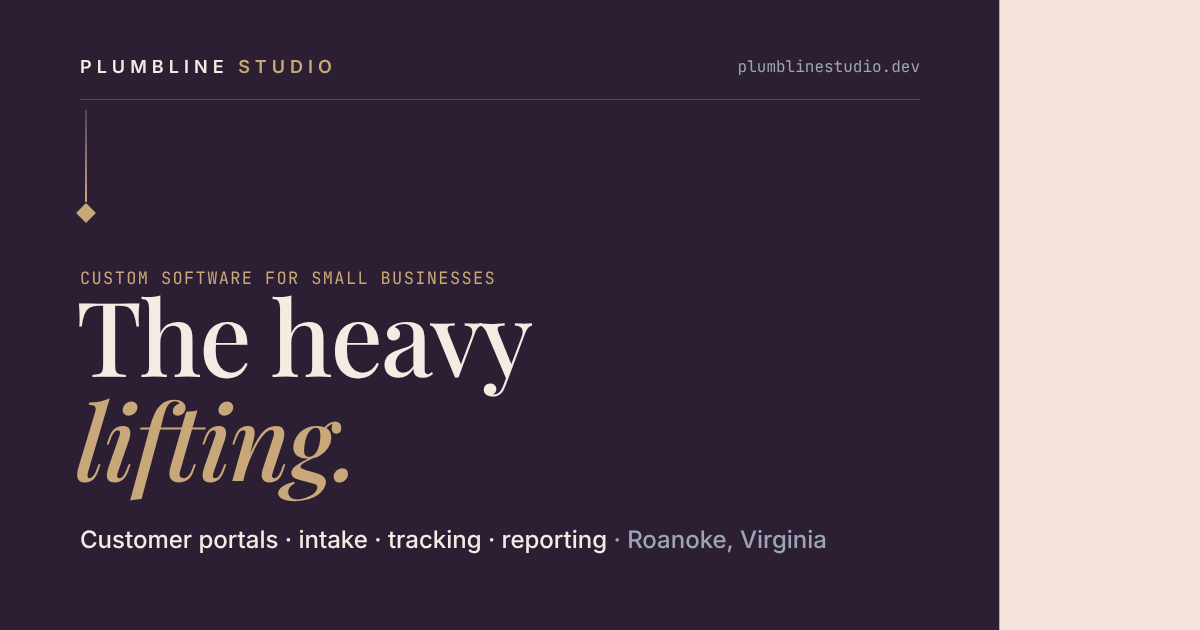
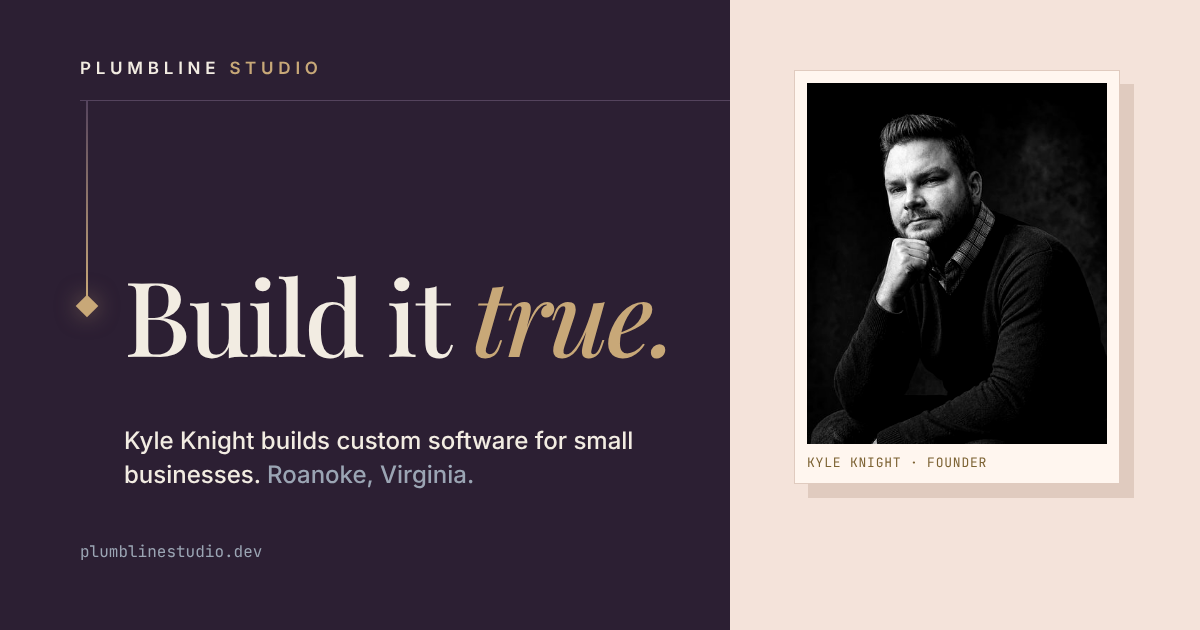
Plumb line and "Build it true." on every page (#45)
* Home: bring back the plumb line and bob, hanging from the header into the hero

Claude-Session: https://claude.ai/code/session_01N9v93JXUuCPZh9da1m1PTa

* Findability: icons, plum share image, search titles, structured data, local copy, 404

- Icons: favicon.ico (48), favicon.svg (plumb bob on plum), apple-touch-icon, 192/512
  icons, web manifest, theme-color, on every page incl. the case-study template.
- New 1200x630 share image in plum, without the old 2-4 week promise; J2 case study
  gets a proper 1200x630 share crop (og: front matter).
- Titles and descriptions say what the studio is and where: 'Custom software for
  small businesses · Roanoke, VA'; partners 'White-label build partner for agencies,
  MSPs, consultants'; descriptions trimmed to ~150-160 characters.
- Structured data: home ProfessionalService (+@id, logo, image, priceRange, service
  area cities, founder image), WebSite, FAQPage; partners Service with audiences and
  both offers; how-a-build-runs FAQPage; Article + BreadcrumbList on every case study;
  CollectionPage on the index; breadcrumbs on security.
- Portrait served as /kyle.jpg (was base64 in JS, invisible to crawlers).
- Copy: Google Sheets/AppSheet line in the hero; 'Do I have to replace my spreadsheet?'
  FAQ; service area in the footer; partners name MSPs, add fractional COOs and EOS
  implementers, 'US-based subcontract developer'.
- llms.txt: plain one-paragraph identity, service area, name-collision note.
[…]

diff --git a/storefront/index.html b/storefront/index.html
@@ -13,7 +13,7 @@
 <meta property="og:image" content="https://plumblinestudio.dev/og/plumbline-studio.png">
 <meta property="og:image:width" content="1200">
 <meta property="og:image:height" content="630">
-<meta property="og:image:alt" content="Plumbline Studio: The heavy lifting. Custom software for small businesses, Roanoke, Virginia.">
+<meta property="og:image:alt" content="Build it true. Kyle Knight of Plumbline Studio, custom software for small businesses in Roanoke, Virginia.">
 <meta name="twitter:card" content="summary_large_image">
 <meta name="twitter:image" content="https://plumblinestudio.dev/og/plumbline-studio.png">
 <link rel="icon" href="/favicon.ico" sizes="48x48">
@@ -232,16 +232,13 @@
   .hero{display:grid; grid-template-columns:minmax(0,1.35fr) minmax(0,1fr); gap:var(--s7); align-items:center; padding-block:var(--s9);}
   /* the plumb line hangs from the header rule into the hero: the studio's mark */
   .hero{padding-top:0;}
-  .plumb{display:flex; flex-direction:column; align-items:flex-start; margin-bottom:var(--s6);}
-  .plumb .line{width:1px; height:96px; margin-left:5px; background:linear-gradient(to bottom, var(--line), var(--accent));}
-  .plumb .bob{width:11px; height:11px; background:var(--accent); transform:rotate(45deg); margin-top:6px; box-shadow:0 0 18px rgba(200,168,120,.45);}
   .hero h1{font:500 clamp(3.4rem,10vw,7rem)/.95 var(--f-display); letter-spacing:-.02em; margin-top:var(--s4);}
   .hero h1 em{font-style:italic; color:var(--accent);}
   .hero aside{border-left:1px solid var(--accent); padding-left:var(--s6); display:grid; gap:var(--s4); justify-items:start;}
   .hero aside .sub{font:500 1.3rem/1.3 var(--f-body); color:var(--ink);}
   .hero aside p{color:var(--muted);}
   .hero aside .small{font-size:.9rem; color:var(--muted);}
-  @media (max-width:820px){ .hero{grid-template-columns:1fr; gap:var(--s6); padding-block:var(--s7);} }
+  @media (max-width:820px){ .hero{grid-template-columns:1fr; gap:var(--s6); padding-block:0 var(--s7);} }
 
   /* the real build, on paper */
   .build{display:grid; grid-template-columns:minmax(0,1.25fr) minmax(0,1fr); gap:var(--s7); align-items:start; margin-top:var(--s6);}
@@ -303,9 +300,12 @@
   .close aside{display:grid; gap:var(--s4); justify-items:start; color:var(--muted);}
   @media (max-width:820px){ .close{grid-template-columns:1fr;} }
 
-  footer{border-top:1px solid var(--line); background:var(--deep);}
-  footer .wide{display:flex; justify-content:space-between; gap:var(--s3); flex-wrap:wrap; padding-block:var(--s5); font-size:.88rem; color:var(--muted);}
-  footer .brand{font-size:12px;}
+  /* footer: the same on every page. The bob, the slogan, the studio. */
+  footer{border-top:1px solid var(--line); padding:var(--s6) 24px var(--s7); text-align:center; color:var(--muted); font-size:.88rem;}
+  footer p{margin:0 auto;}
+  footer .bob{display:inline-block; width:8px; height:8px; background:var(--accent); transform:rotate(45deg); margin-bottom:var(--s3);}
+  footer .tag{font:500 1.15rem var(--f-display); color:var(--accent); margin:0 auto var(--s2);}
+  footer .area{font-size:.82rem; margin-top:var(--s2);}
 </style>
 </head>
 <body>
@@ -442,7 +442,10 @@
 </section>
 
 <footer>
-  <div class="wide"><span class="brand">Plumbline <b>Studio</b></span><span>Roanoke, Virginia. Serving the Roanoke Valley, Lynchburg and the New River Valley in person, and clients across the US remotely. Build it true.</span><a href="mailto:kyle@plumblinestudio.dev">kyle@plumblinestudio.dev</a></div>
+  <span class="bob" aria-hidden="true"></span>
+  <p class="tag">Build it true.</p>
+  <p>Plumbline Studio · Roanoke, Virginia · <a href="mailto:kyle@plumblinestudio.dev">kyle@plumblinestudio.dev</a></p>
+  <p class="area">Serving the Roanoke Valley, Lynchburg and the New River Valley in person, and clients across the US remotely.</p>
 </footer>
 
 

diff --git a/storefront/partners/index.html b/storefront/partners/index.html
@@ -118,17 +118,14 @@
   a{color:var(--gold-bright);}
   a:focus-visible, .cta:focus-visible{outline:2px solid var(--gold); outline-offset:3px;}
 
-  .plumb{display:flex; flex-direction:column; align-items:center; padding-top:56px;}
-  .plumb .line{width:1px; height:72px; background:linear-gradient(to bottom, transparent, var(--gold));}
-  .plumb .bob{width:11px; height:11px; background:var(--gold); transform:rotate(45deg); margin-top:6px; box-shadow:0 0 18px rgba(200,168,120,.45);}
 
 
-  header.hero{text-align:center; padding:28px 24px 20px;}
+  header.hero{text-align:left; padding:0 24px 20px;}
   .word{font:500 15px 'Inter',sans-serif; letter-spacing:.34em; text-transform:uppercase; color:var(--slate); margin:26px 0 30px;}
   .word b{color:var(--gold); font-weight:500;}
   .word a{color:inherit; text-decoration:none;}
   h1{font:500 clamp(2rem,6vw,3.1rem)/1.18 'Playfair Display',Georgia,serif; margin:0 0 22px; text-wrap:balance; color:var(--text);}
-  .hero p.lede{font-size:1.13rem; color:var(--slate); max-width:36em; margin:0 auto 34px; text-wrap:pretty;}
+  .hero p.lede{font-size:1.13rem; color:var(--slate); max-width:36em; margin:0 0 34px; text-wrap:pretty;}
   .cta{display:inline-block; background:var(--gold); color:var(--on-accent); font-weight:600; text-decoration:none; padding:14px 30px; border-radius:6px; letter-spacing:.02em;}
   .cta:hover{background:var(--gold-bright);}
   .subcta{display:block; margin-top:14px; font-size:.9rem; color:var(--slate);}
@@ -167,9 +164,9 @@
   <a class="brand" href="/">Plumbline <b>Studio</b></a>
   <nav class="links" aria-label="Site"><a href="/how-a-build-runs/">How it works</a><a href="/case-studies/">Case studies</a><a href="/partners/" aria-current="page">For partners</a><a href="https://clients.plumblinestudio.dev/">Client login</a><a class="book" href="https://calendly.com/plumblinestudio/30min" onclick="if(window.Calendly){Calendly.initPopupWidget({url:'https://calendly.com/plumblinestudio/30min'});return false;}">Book a call</a></nav>
 </header>
-<div class="plumb" aria-hidden="true"><div class="line"></div><div class="bob"></div></div>
 
 <header class="hero wrap">
+  <div class="plumb" aria-hidden="true"><div class="line"></div><div class="bob"></div></div>
   <p class="kicker">Build partner: white-label, co-branded, or alongside you</p>
   <h1>You keep the client and the strategy.<br>I handle the build.</h1>
   <p class="lede">For AI consultants, managed IT providers, marketing agencies, fractional COOs, CTOs and CFOs, EOS implementers and coaches. When your client needs something built that you can't build, you bring in a US-based subcontract developer.</p>

diff --git a/storefront/how-a-build-runs/index.html b/storefront/how-a-build-runs/index.html
@@ -109,17 +109,14 @@
   a{color:var(--gold-bright);}
   a:focus-visible, .cta:focus-visible{outline:2px solid var(--gold); outline-offset:3px;}
 
-  .plumb{display:flex; flex-direction:column; align-items:center; padding-top:56px;}
-  .plumb .line{width:1px; height:72px; background:linear-gradient(to bottom, transparent, var(--gold));}
-  .plumb .bob{width:11px; height:11px; background:var(--gold); transform:rotate(45deg); margin-top:6px; box-shadow:0 0 18px rgba(200,168,120,.45);}
 
 
-  header.hero{text-align:center; padding:28px 24px 20px;}
+  header.hero{text-align:left; padding:0 24px 20px;}
   .word{font:500 15px 'Inter',sans-serif; letter-spacing:.34em; text-transform:uppercase; color:var(--slate); margin:26px 0 30px;}
   .word b{color:var(--gold); font-weight:500;}
   .word a{color:inherit; text-decoration:none;}
   h1{font:500 clamp(2rem,6vw,3.1rem)/1.18 'Playfair Display',Georgia,serif; margin:0 0 22px; text-wrap:balance; color:var(--text);}
-  .hero p.lede{font-size:1.13rem; color:var(--slate); max-width:36em; margin:0 auto 34px; text-wrap:pretty;}
+  .hero p.lede{font-size:1.13rem; color:var(--slate); max-width:36em; margin:0 0 34px; text-wrap:pretty;}
   .cta{display:inline-block; background:var(--gold); color:var(--on-accent); font-weight:600; text-decoration:none; padding:14px 30px; border-radius:6px; letter-spacing:.02em;}
   .cta:hover{background:var(--gold-bright);}
   .subcta{display:block; margin-top:14px; font-size:.9rem; color:var(--slate);}
@@ -184,8 +181,8 @@
   <a class="brand" href="/">Plumbline <b>Studio</b></a>
   <nav class="links" aria-label="Site"><a href="/how-a-build-runs/" aria-current="page">How it works</a><a href="/case-studies/">Case studies</a><a href="/partners/">For partners</a><a href="https://clients.plumblinestudio.dev/">Client login</a><a class="book" href="https://calendly.com/plumblinestudio/30min" onclick="if(window.Calendly){Calendly.initPopupWidget({url:'https://calendly.com/plumblinestudio/30min'});return false;}">Book a call</a></nav>
 </header>
-<div class="plumb" aria-hidden="true"><div class="line"></div><div class="bob"></div></div>
 <header class="hero wrap">
+  <div class="plumb" aria-hidden="true"><div class="line"></div><div class="bob"></div></div>
   <p class="kicker">How a build runs</p>
   <h1>What to expect,<br>step by step.</h1>
   <p class="lede">Every build follows the same path, from the first call to the month after handover. Each step below says what happens, what you get, and shows a real example from a real project, with client details blurred. If an advisor sent you here, it works the same way through them.</p>

diff --git a/storefront/security-and-handover/index.html b/storefront/security-and-handover/index.html
@@ -64,17 +64,14 @@
   a{color:var(--gold-bright);}
   a:focus-visible, .cta:focus-visible{outline:2px solid var(--gold); outline-offset:3px;}
 
-  .plumb{display:flex; flex-direction:column; align-items:center; padding-top:56px;}
-  .plumb .line{width:1px; height:72px; background:linear-gradient(to bottom, transparent, var(--gold));}
-  .plumb .bob{width:11px; height:11px; background:var(--gold); transform:rotate(45deg); margin-top:6px; box-shadow:0 0 18px rgba(200,168,120,.45);}
 
 
-  header.hero{text-align:center; padding:28px 24px 20px;}
+  header.hero{text-align:left; padding:0 24px 20px;}
   .word{font:500 15px 'Inter',sans-serif; letter-spacing:.34em; text-transform:uppercase; color:var(--slate); margin:26px 0 30px;}
   .word b{color:var(--gold); font-weight:500;}
   .word a{color:inherit; text-decoration:none;}
   h1{font:500 clamp(2rem,6vw,3.1rem)/1.18 'Playfair Display',Georgia,serif; margin:0 0 22px; text-wrap:balance; color:var(--text);}
-  .hero p.lede{font-size:1.13rem; color:var(--slate); max-width:36em; margin:0 auto 34px; text-wrap:pretty;}
+  .hero p.lede{font-size:1.13rem; color:var(--slate); max-width:36em; margin:0 0 34px; text-wrap:pretty;}
   .cta{display:inline-block; background:var(--gold); color:var(--on-accent); font-weight:600; text-decoration:none; padding:14px 30px; border-radius:6px; letter-spacing:.02em;}
   .cta:hover{background:var(--gold-bright);}
   .subcta{display:block; margin-top:14px; font-size:.9rem; color:var(--slate);}
@@ -133,8 +130,8 @@
   <a class="brand" href="/">Plumbline <b>Studio</b></a>
   <nav class="links" aria-label="Site"><a href="/how-a-build-runs/">How it works</a><a href="/case-studies/">Case studies</a><a href="/partners/">For partners</a><a href="https://clients.plumblinestudio.dev/">Client login</a><a class="book" href="https://calendly.com/plumblinestudio/30min" onclick="if(window.Calendly){Calendly.initPopupWidget({url:'https://calendly.com/plumblinestudio/30min'});return false;}">Book a call</a></nav>
 </header>
-<div class="plumb" aria-hidden="true"><div class="line"></div><div class="bob"></div></div>
 <header class="hero wrap">
+  <div class="plumb" aria-hidden="true"><div class="line"></div><div class="bob"></div></div>
   <p class="kicker">Security and handover</p>
   <h1>What's agreed before<br>anything is built.</h1>
   <p class="lede">Every build's scope says, in writing, where it runs, what data it touches, who can get in, how AI is used, and what you get at the end. This page lists those items, and the rules that hold on every project. If you're an IT provider vetting me for a client, start here.</p>

diff --git a/storefront/404.html b/storefront/404.html
@@ -39,17 +39,14 @@
   a{color:var(--gold-bright);}
   a:focus-visible, .cta:focus-visible{outline:2px solid var(--gold); outline-offset:3px;}
 
-  .plumb{display:flex; flex-direction:column; align-items:center; padding-top:56px;}
-  .plumb .line{width:1px; height:72px; background:linear-gradient(to bottom, transparent, var(--gold));}
-  .plumb .bob{width:11px; height:11px; background:var(--gold); transform:rotate(45deg); margin-top:6px; box-shadow:0 0 18px rgba(200,168,120,.45);}
 
 
-  header.hero{text-align:center; padding:28px 24px 20px;}
+  header.hero{text-align:left; padding:0 24px 20px;}
   .word{font:500 15px 'Inter',sans-serif; letter-spacing:.34em; text-transform:uppercase; color:var(--slate); margin:26px 0 30px;}
   .word b{color:var(--gold); font-weight:500;}
   .word a{color:inherit; text-decoration:none;}
   h1{font:500 clamp(2rem,6vw,3.1rem)/1.18 'Playfair Display',Georgia,serif; margin:0 0 22px; text-wrap:balance; color:var(--text);}
-  .hero p.lede{font-size:1.13rem; color:var(--slate); max-width:36em; margin:0 auto 34px; text-wrap:pretty;}
+  .hero p.lede{font-size:1.13rem; color:var(--slate); max-width:36em; margin:0 0 34px; text-wrap:pretty;}
   .cta{display:inline-block; background:var(--gold); color:var(--on-accent); font-weight:600; text-decoration:none; padding:14px 30px; border-radius:6px; letter-spacing:.02em;}
   .cta:hover{background:var(--gold-bright);}
   .subcta{display:block; margin-top:14px; font-size:.9rem; color:var(--slate);}
@@ -106,8 +103,8 @@
   <a class="brand" href="/">Plumbline <b>Studio</b></a>
   <nav class="links" aria-label="Site"><a href="/how-a-build-runs/">How it works</a><a href="/case-studies/">Case studies</a><a href="/partners/">For partners</a><a href="https://clients.plumblinestudio.dev/">Client login</a><a class="book" href="https://calendly.com/plumblinestudio/30min">Book a call</a></nav>
 </header>
-<div class="plumb" aria-hidden="true"><div class="line"></div><div class="bob"></div></div>
 <header class="hero wrap">
+  <div class="plumb" aria-hidden="true"><div class="line"></div><div class="bob"></div></div>
   <p class="kicker">404</p>
   <h1>This page isn't here.</h1>
   <p class="lede">The link may be old, or the page may have moved. These are the places most people are looking for.</p>

diff --git a/storefront/css/site.css b/storefront/css/site.css
@@ -75,3 +75,8 @@ footer p { margin-left: auto; margin-right: auto; }
 .paper h2, .paper h3, .cream h2, .cream h3, .paper b, .cream b { color: var(--paper-ink); }
 .paper a, .cream a { color: var(--paper-ink); text-decoration-color: var(--paper-accent); }
 .paper .point, .cream .point { border-color: var(--paper-line); }
+
+/* the studio's mark: a plumb line hanging from the header rule, left-aligned with the content, on every page */
+.plumb { display: flex; flex-direction: column; align-items: flex-start; margin-bottom: var(--s5); }
+.plumb .line { width: 1px; height: 72px; margin-left: 5px; background: linear-gradient(to bottom, var(--line), var(--accent)); }
+.plumb .bob { width: 11px; height: 11px; background: var(--accent); transform: rotate(45deg); margin-top: 6px; box-shadow: 0 0 18px rgba(200, 168, 120, .45); }

diff --git a/storefront/case-studies/renaissance-content-system/index.html b/storefront/case-studies/renaissance-content-system/index.html
@@ -87,6 +87,7 @@
   <nav class="links" aria-label="Site"><a href="/how-a-build-runs/">How it works</a><a href="/case-studies/" aria-current="page">Case studies</a><a href="/partners/">For partners</a><a href="https://clients.plumblinestudio.dev/">Client login</a><a class="book" href="https://calendly.com/plumblinestudio/30min">Book a call</a></nav>
 </header>
 <main class="wrap case">
+  <div class="plumb" aria-hidden="true"><div class="line"></div><div class="bob"></div></div>
   <a class="back" href="/case-studies/">← All case studies</a>
   <p class="back">Part of the series <a href="/case-studies/renaissance/">Two websites and one content system for a lighting and furniture maker</a></p>
   <header class="case-head">

diff --git a/storefront/case-studies/renaissance-hospitality/index.html b/storefront/case-studies/renaissance-hospitality/index.html
@@ -87,6 +87,7 @@
   <nav class="links" aria-label="Site"><a href="/how-a-build-runs/">How it works</a><a href="/case-studies/" aria-current="page">Case studies</a><a href="/partners/">For partners</a><a href="https://clients.plumblinestudio.dev/">Client login</a><a class="book" href="https://calendly.com/plumblinestudio/30min">Book a call</a></nav>
 </header>
 <main class="wrap case">
+  <div class="plumb" aria-hidden="true"><div class="line"></div><div class="bob"></div></div>
   <a class="back" href="/case-studies/">← All case studies</a>
   <p class="back">Part of the series <a href="/case-studies/renaissance/">Two websites and one content system for a lighting and furniture maker</a></p>
   <header class="case-head">

diff --git a/storefront/case-studies/renaissance-site-furnishings/index.html b/storefront/case-studies/renaissance-site-furnishings/index.html
@@ -87,6 +87,7 @@
   <nav class="links" aria-label="Site"><a href="/how-a-build-runs/">How it works</a><a href="/case-studies/" aria-current="page">Case studies</a><a href="/partners/">For partners</a><a href="https://clients.plumblinestudio.dev/">Client login</a><a class="book" href="https://calendly.com/plumblinestudio/30min">Book a call</a></nav>
 </header>
 <main class="wrap case">
+  <div class="plumb" aria-hidden="true"><div class="line"></div><div class="bob"></div></div>
   <a class="back" href="/case-studies/">← All case studies</a>
   <p class="back">Part of the series <a href="/case-studies/renaissance/">Two websites and one content system for a lighting and furniture maker</a></p>
   <header class="case-head">

diff --git a/storefront/case-studies/hr-position-finalization/index.html b/storefront/case-studies/hr-position-finalization/index.html
@@ -87,6 +87,7 @@
   <nav class="links" aria-label="Site"><a href="/how-a-build-runs/">How it works</a><a href="/case-studies/" aria-current="page">Case studies</a><a href="/partners/">For partners</a><a href="https://clients.plumblinestudio.dev/">Client login</a><a class="book" href="https://calendly.com/plumblinestudio/30min">Book a call</a></nav>
 </header>
 <main class="wrap case">
+  <div class="plumb" aria-hidden="true"><div class="line"></div><div class="bob"></div></div>
   <a class="back" href="/case-studies/">← All case studies</a>
   <p class="back">Part of the series <a href="/case-studies/staff-platform-tools/">Three tools inside a nonprofit's own staff platform</a></p>
   <header class="case-head">

diff --git a/storefront/case-studies/stipend-automation/index.html b/storefront/case-studies/stipend-automation/index.html
@@ -87,6 +87,7 @@
   <nav class="links" aria-label="Site"><a href="/how-a-build-runs/">How it works</a><a href="/case-studies/" aria-current="page">Case studies</a><a href="/partners/">For partners</a><a href="https://clients.plumblinestudio.dev/">Client login</a><a class="book" href="https://calendly.com/plumblinestudio/30min">Book a call</a></nav>
 </header>
 <main class="wrap case">
+  <div class="plumb" aria-hidden="true"><div class="line"></div><div class="bob"></div></div>
   <a class="back" href="/case-studies/">← All case studies</a>
   <p class="back">Part of the series <a href="/case-studies/staff-platform-tools/">Three tools inside a nonprofit's own staff platform</a></p>
   <header class="case-head">

diff --git a/storefront/case-studies/vendor-enrollment/index.html b/storefront/case-studies/vendor-enrollment/index.html
@@ -87,6 +87,7 @@
   <nav class="links" aria-label="Site"><a href="/how-a-build-runs/">How it works</a><a href="/case-studies/" aria-current="page">Case studies</a><a href="/partners/">For partners</a><a href="https://clients.plumblinestudio.dev/">Client login</a><a class="book" href="https://calendly.com/plumblinestudio/30min">Book a call</a></nav>
 </header>
 <main class="wrap case">
+  <div class="plumb" aria-hidden="true"><div class="line"></div><div class="bob"></div></div>
   <a class="back" href="/case-studies/">← All case studies</a>
   <p class="back">Part of the series <a href="/case-studies/staff-platform-tools/">Three tools inside a nonprofit's own staff platform</a></p>
   <header class="case-head">
